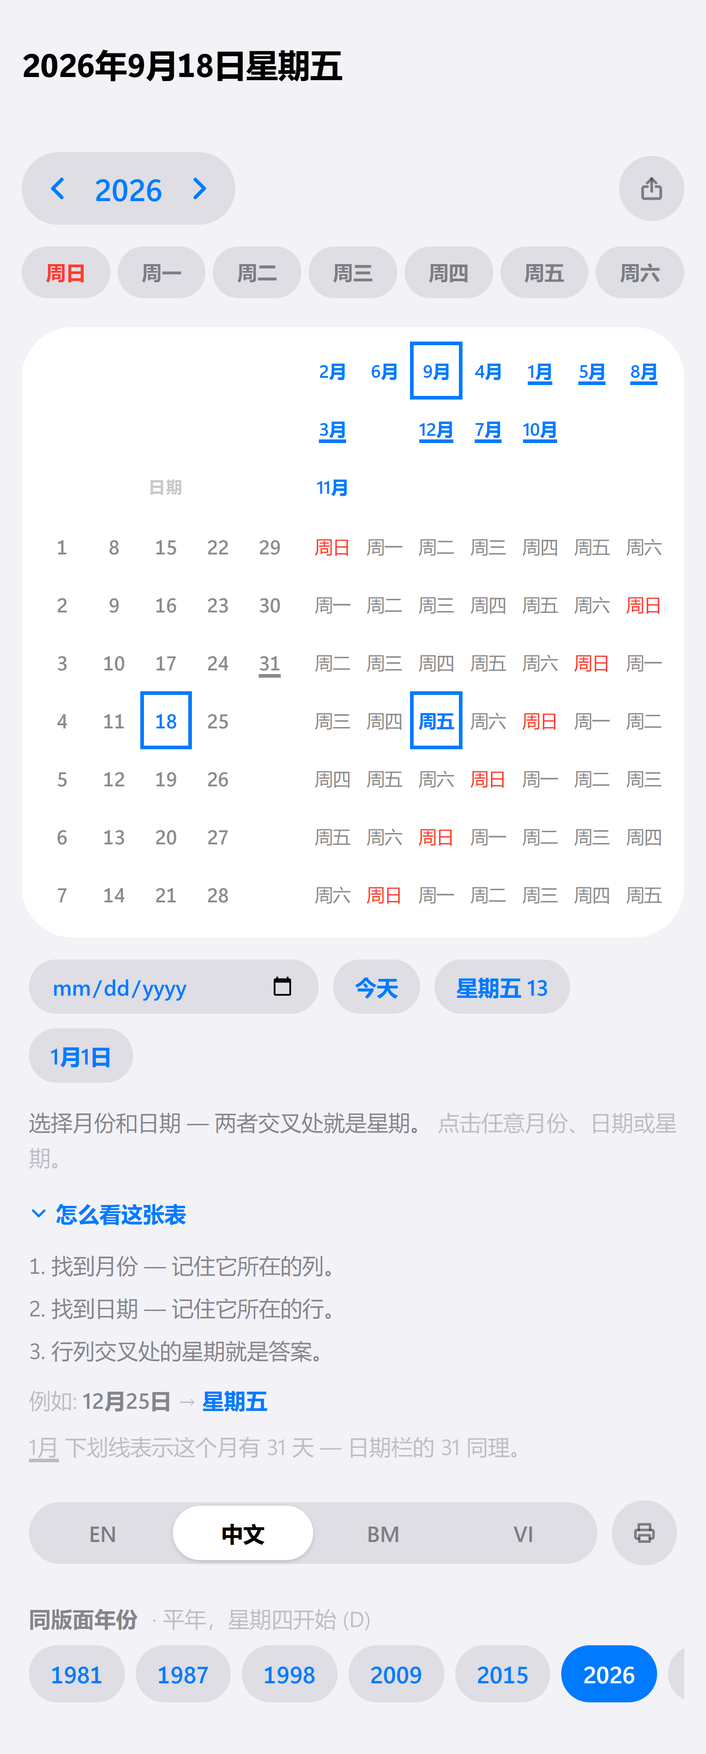
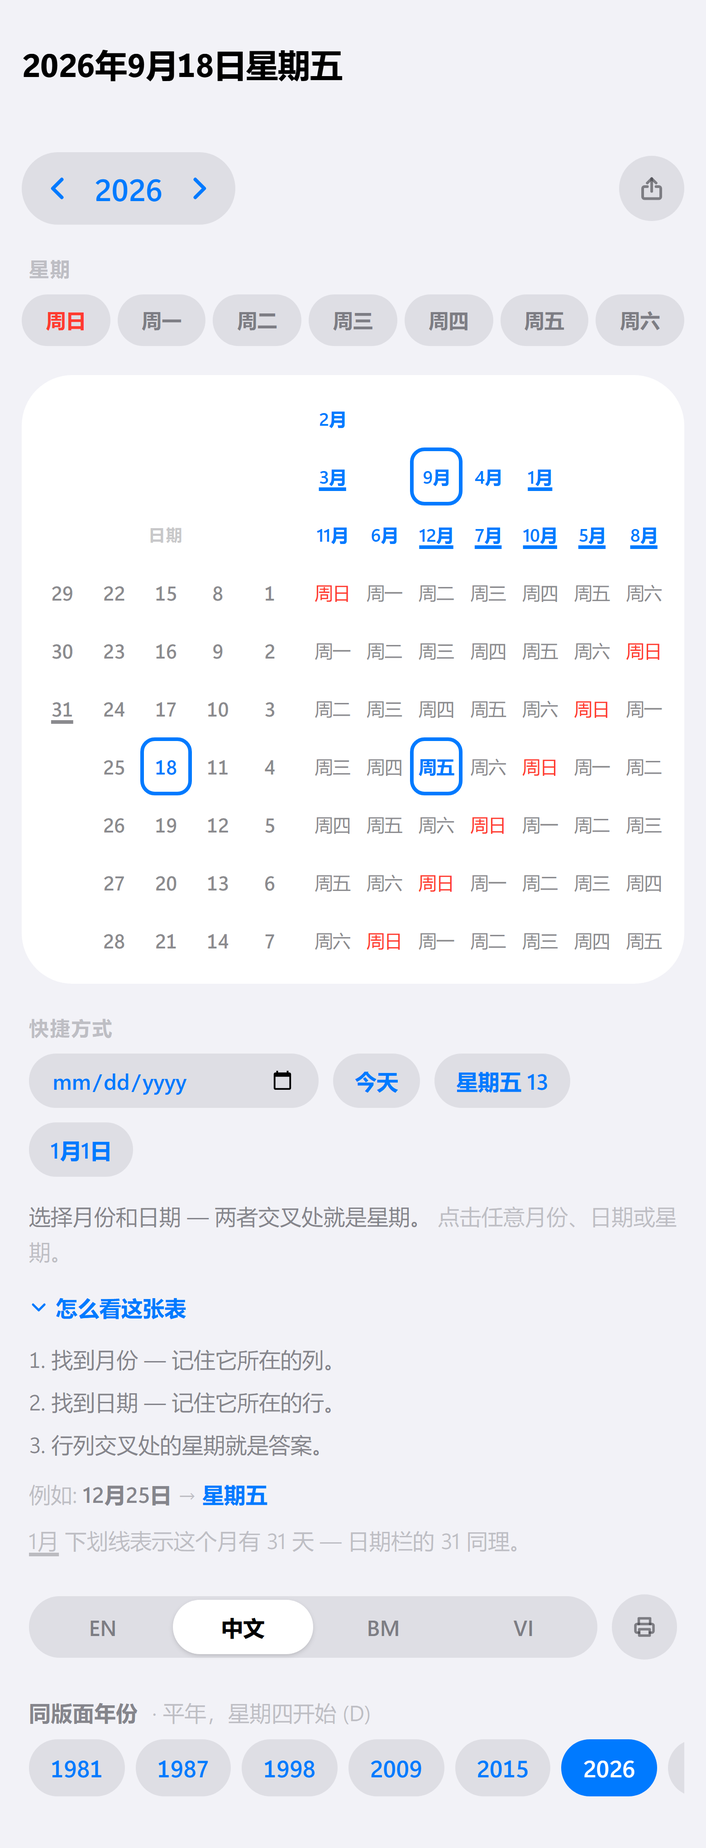
Close the holes in the crosshair, and label what is pressable
Four places leaked a gap through the band, and all four had the same cause:
something in the grid was ragged, and the ragged part was pointing inward.

Month columns hold one to three months and packed to the top, which put empty
cells directly above the weekday grid — so a column's band ran through a hole
on its way down, and the months floated away from the axis they label. They
pack to the bottom now; the spare cells collect at the top of the block where
nothing crosses them.

The date block's fifth column runs out of dates after the 28th, and that
column sat against the weekday grid, leaving a notch in the middle of the
card. The columns now run backwards — 1-7 on the right, 29-31 on the left — so
the cells with no date sit at the block's outer edge and read as margin. Every
row is the same weekday whichever column you read it in, so the order costs
nothing. Those cells also carry the band now: it marks the row, not the dates
in it, and stopping short left the bar looking broken off rather than finished.

The margin between the month grid and the weekday grid was the third hole —
a bright column with an unpainted line across it — and is gone.

The band's four outer tips are rounded and every inner angle stays square. A
plus sign cut off flat at all four ends looks clipped rather than drawn. The
corners are derived from which neighbours are lit rather than from
coordinates, because each block bounds its band differently: the month
[…]

diff --git a/src/components/CalendarBuilder.tsx b/src/components/CalendarBuilder.tsx
@@ -12,6 +12,7 @@ import {
   calendarTypeOf,
   columnForMonth,
   dateAt,
+  DATE_COLS,
   datesInRow,
   daysInMonth,
   dominicalLetterOf,
@@ -111,6 +112,37 @@ const DATE_TEXT = 'text-[11px] sm:text-[13px] lg:text-[15px]';
 const LABEL_TEXT =
   'text-[10px] tracking-tight sm:text-[12px] sm:tracking-normal lg:text-[14px]';
 
+/**
+ * Rounding for a tile sitting at the outer edge of a highlight band.
+ *
+ * The crosshair is a plus sign built out of abutting squares, and a plus sign
+ * cut off square at all four tips looks like it was clipped rather than drawn.
+ * Only the *outer* corners round: a corner is outer when both edges meeting
+ * there have nothing lit beyond them, which is what keeps the band's inner
+ * angles sharp and lets it close up where the arms cross.
+ *
+ * Callers pass which edges are exposed rather than their coordinates, because
+ * each of the three blocks decides that differently — the month column's band
+ * continues downward into the weekday grid, the date row's does not continue
+ * anywhere, and the weekday grid has both arms running through it.
+ */
+const bandCorners = (top: boolean, right: boolean, bottom: boolean, left: boolean): string =>
+  [
+    top && left ? 'rounded-tl-lg' : '',
+    top && right ? 'rounded-tr-lg' : '',
+    bottom && right ? 'rounded-br-lg' : '',
+    bottom && left ? 'rounded-bl-lg' : '',
+  ]
+    .filter(Boolean)
+    .join(' ');
+
+// Every group of controls says what it is. They were previously distinguishable
+// only by shape, which left a reader looking at three unlabelled rows of pills
+// above and below the grid with no way to tell a filter from a shortcut — the
+// names existed, but only as aria-labels, so only a screen reader got them.
+const SECTION_LABEL =
+  'px-1 text-[11px] font-semibold uppercase tracking-[0.06em] text-ios-label-3';
+
 // iOS control surface: dims on press rather than flashing a highlight.
 const PRESSABLE = 'select-none transition active:opacity-55';
 const FOCUS_RING =
@@ -159,6 +191,14 @@ const CalendarBuilder = () => {
     order: (['month', 'date', 'weekday'] as Axis[]).filter(a => initial[a] !== null),
   }));
   const [hovered, setHovered] = useState<Selection>(EMPTY);
+
+  // The explainer starts open for a reader arriving cold, and closed for one
+  // arriving on a shared link — that link came with context, and its sender
+  // did not mean to send a tutorial. Derived once from the URL rather than
+  // stored, so there is still nothing persisted anywhere.
+  const [explainerOpen, setExplainerOpen] = useState(
+    () => initial.month === null && initial.date === null && initial.weekday === null,
+  );
 
   const t = translations[language];
 
@@ -667,11 +707,13 @@ const CalendarBuilder = () => {
             can never express "I only care about Fridays" — the half of the
             lookup a conventional calendar is worst at. Sitting directly above
             the grid, it now reads as what it is: a filter on the whole board. */}
-        <div
-          role="group"
-          aria-label={t.weekdayLabel}
-          className="mt-3 grid grid-cols-7 gap-1 print:hidden lg:col-start-1 lg:row-start-3 lg:mt-0 lg:grid-cols-4"
-        >
+        <div className="mt-4 print:hidden lg:col-start-1 lg:row-start-3 lg:mt-0">
+          <h2 className={SECTION_LABEL}>{t.weekdayLabel}</h2>
+          <div
+            role="group"
+            aria-label={t.weekdayLabel}
+            className="mt-1.5 grid grid-cols-7 gap-1 lg:grid-cols-4"
+          >
           {t.weekdays.map((label, weekday) => {
             const isOn = activeWeekday === weekday;
             return (
@@ -691,11 +733,12 @@ const CalendarBuilder = () => {
                       ? 'bg-ios-fill text-ios-red'
                       : 'bg-ios-fill text-ios-label-2'
                 }`}
-              >
-                {label}
-              </button>
-            );
-          })}
+                >
+                  {label}
+                </button>
+              );
+            })}
+          </div>
         </div>
 
         {/* Grouped-content card */}
@@ -709,11 +752,13 @@ const CalendarBuilder = () => {
           <div className="flex gap-1.5 sm:gap-3">
             {/* Dates */}
             <div className="flex-5">
-              {/* Mirrors the month grid's shape with the same cell and gap
-                  classes, so both blocks start on the same line at every
-                  breakpoint without hard-coded offsets. The otherwise dead
-                  corner carries the axis label. */}
-              <div className="mb-px grid grid-cols-5 sm:mb-1">
+              {/* Mirrors the month grid's shape with the same cell classes, so
+                  both blocks start on the same line at every breakpoint without
+                  hard-coded offsets. The otherwise dead corner carries the axis
+                  label. No bottom margin: the month column's band runs straight
+                  down into the weekday grid, and a margin there left a bright
+                  line with an unpainted gap through the middle of it. */}
+              <div className="grid grid-cols-5">
                 {Array.from({ length: (monthRowCount - 1) * 5 }, (_, i) => (
                   <div key={`pad-${i}`} className={CELL} />
                 ))}
@@ -737,8 +782,37 @@ const CalendarBuilder = () => {
               >
                 {Array.from({ length: 7 }, (_, row) =>
                   Array.from({ length: 5 }, (_, col) => {
-                    const num = dateAt(row, col);
-                    if (num === null) return <div key={`d-${row}-${col}`} />;
+                    // Columns run *backwards*: 1-7 on the right, 29-31 on the
+                    // left. Every row is the same weekday whichever column you
+                    // read it in, so the order costs nothing — and it moves the
+                    // four cells that hold no date out of the block's inner edge,
+                    // where they sat as a notch between the dates and the weekday
+                    // grid, to its outer edge, where they read as margin.
+                    const num = dateAt(row, DATE_COLS - 1 - col);
+                    const inActiveRow = activeRow === row;
+                    // The date row's band is a bar on its own — nothing lit sits
+                    // above or below it — so both of its ends round. Only cells
+                    // actually in the band ask for corners; elsewhere the radius
+                    // would be invisible anyway, but it would round today's ring.
+                    const corners = inActiveRow
+                      ? bandCorners(true, col === DATE_COLS - 1, true, col === 0)
+                      : '';
+
+                    // Rows 4-7 run out of dates before they run out of columns.
+                    // Those cells still carry the band: it marks the row, not the
+                    // dates in it, and stopping short of the edge left the bar
+                    // looking broken off rather than finished.
+                    if (num === null) {
+                      return (
+                        <div key={`d-${row}-${col}`} className={CELL}>
+                          <span
+                            className={`${TILE} ${corners} ${
+                              inActiveRow ? 'bg-ios-blue-soft' : ''
+                            }`}
+                          />
+                        </div>
+                      );
+                    }
 
                     // Only real once a month is known — which is exactly why the
                     // month block is selectable.
@@ -749,7 +823,6 @@ const CalendarBuilder = () => {
                       num === currentDate &&
                       (activeMonth === null || activeMonth === currentMonth);
                     const isPast = isBeforeToday(year, activeMonth, num, today);
-                    const inActiveRow = activeRow === row;
                     // The mirror case: a month and a weekday resolve a row, and
                     // every date in it is an answer.
                     const answering = activeDate === null && activeRow !== null;
@@ -769,7 +842,7 @@ const CalendarBuilder = () => {
                       >
                         <span
                           aria-current={isToday ? 'date' : undefined}
-                          className={`${TILE} ${DATE_TEXT} ${CELL_FOCUS} font-medium tabular-nums ${
+                          className={`${TILE} ${DATE_TEXT} ${CELL_FOCUS} ${corners} font-medium tabular-nums ${
                             outOfRange
                               ? 'text-ios-label-3 line-through decoration-1 opacity-40'
                               : isSelected || isAnswer
@@ -783,7 +856,7 @@ const CalendarBuilder = () => {
                                   // findable in every state instead of having to
                                   // stand down whenever something is selected.
                                   isToday
-                                  ? `font-semibold text-ios-blue outline-2 -outline-offset-2 outline-ios-blue ${
+                                  ? `rounded-lg font-semibold text-ios-blue outline-2 -outline-offset-2 outline-ios-blue ${
                                       inActiveRow ? 'bg-ios-blue-soft' : ''
                                     }`
                                   : inActiveRow
@@ -804,32 +877,32 @@ const CalendarBuilder = () => {
 
             {/* Months above, weekdays below — they share the 7 columns */}
             <div className="flex-7">
-              <div
-                role="group"
-                aria-label={t.monthsLabel}
-                className="mb-px grid grid-cols-7 sm:mb-1"
-              >
+              {/* No bottom margin, so a column's band runs unbroken from its
+                  topmost month straight down through the weekday grid. */}
+              <div role="group" aria-label={t.monthsLabel} className="grid grid-cols-7">
                 {Array.from({ length: monthRowCount }, (_, row) =>
                   Array.from({ length: 7 }, (_, col) => {
-                    const monthIndex = monthColumns[col][row];
-                    // A column holds one to three months, so most columns have
-                    // empty rows below theirs. Those empties still carry the
-                    // column's highlight: the band means "this column", not
-                    // "these months", and leaving a hole in it where no month
-                    // happens to sit made the crosshair look broken.
-                    if (monthIndex === undefined) {
-                      return (
-                        <div key={`m-${row}-${col}`} className={CELL}>
-                          <span
-                            className={`${TILE} ${activeCol === col ? 'bg-ios-blue-soft' : ''}`}
-                          />
-                        </div>
-                      );
-                    }
+                    // Columns hold one to three months and are packed to the
+                    // *bottom*, not the top. Top-packing left every short column
+                    // with empty cells immediately above the weekday grid, which
+                    // both stranded the months away from the axis they label and
+                    // put a hole in the middle of the column's band. Packed down,
+                    // the spare cells collect at the top of the block where
+                    // nothing needs to cross them.
+                    const months = monthColumns[col];
+                    const offset = monthRowCount - months.length;
+                    const monthIndex = row < offset ? undefined : months[row - offset];
+                    if (monthIndex === undefined) return <div key={`m-${row}-${col}`} className={CELL} />;
 
                     const isSelected = activeMonth === monthIndex;
                     const isCurrent = showToday && monthIndex === currentMonth;
                     const inActiveCol = activeCol === col;
+                    // The column's band starts at this column's first month and
+                    // continues down into the weekday grid, so only its top two
+                    // corners are ever outer ones.
+                    const corners = inActiveCol
+                      ? bandCorners(row === offset, true, false, true)
+                      : '';
                     // In a reverse lookup nothing was picked on this axis, so
                     // every month in the resolved column is part of the answer
                     // — and should read as one, not as faint context.
@@ -852,7 +925,7 @@ const CalendarBuilder = () => {
                         className={`${CELL} group select-none focus:outline-none`}
                       >
                         <span
-                          className={`${TILE} ${LABEL_TEXT} ${CELL_FOCUS} overflow-hidden px-px font-semibold ${
+                          className={`${TILE} ${LABEL_TEXT} ${CELL_FOCUS} ${corners} overflow-hidden px-px font-semibold ${
                             // While an answer set is on screen the "current
                             // month" marker stands down: two different meanings
                             // sharing one solid fill would read as one answer
@@ -869,7 +942,7 @@ const CalendarBuilder = () => {
                             isSelected || isAnswer
                               ? 'bg-ios-blue text-white'
                               : isCurrent
-                                ? `outline-2 -outline-offset-2 outline-ios-blue ${
+                                ? `rounded-lg outline-2 -outline-offset-2 outline-ios-blue ${
                                     inActiveCol ? 'bg-ios-blue-soft' : ''
                                   } text-ios-blue`
                                 : inActiveCol
@@ -911,6 +984,22 @@ const CalendarBuilder = () => {
                       const isTodayCell =
                         noSelection && showToday && row === todayRow && col === todayCol;
 
+                      // Both arms of the crosshair run through this block, so an
+                      // edge is outer only when the neighbour beyond it is unlit.
+                      // Row -1 is the month grid, which abuts this one and is lit
+                      // wherever the column is — so the band's top tip lives up
+                      // there, not here.
+                      const litAt = (r: number, c: number) =>
+                        r >= 0 && r < 7 && c >= 0 && c < 7 && (c === activeCol || r === activeRow);
+                      const corners = onCross
+                        ? bandCorners(
+                            row === 0 ? col !== activeCol : !litAt(row - 1, col),
+                            !litAt(row, col + 1),
+                            !litAt(row + 1, col),
+                            !litAt(row, col - 1),
+                          )
+                        : '';
+
                       return (
                         <button
                           key={`w-${row}-${col}`}
@@ -947,11 +1036,11 @@ const CalendarBuilder = () => {
                           className={`${CELL} group select-none focus:outline-none`}
                         >
                           <span
-                            className={`${TILE} ${LABEL_TEXT} ${CELL_FOCUS} font-medium ${
+                            className={`${TILE} ${LABEL_TEXT} ${CELL_FOCUS} ${corners} font-medium ${
                               atIntersection
                                 ? 'bg-ios-blue font-semibold text-white'
                                 : isTodayCell
-                                  ? 'font-semibold text-ios-blue outline-2 -outline-offset-2 outline-ios-blue'
+                                  ? 'rounded-lg font-semibold text-ios-blue outline-2 -outline-offset-2 outline-ios-blue'
                                   : onCross
                                     ? 'bg-ios-blue-soft text-ios-blue'
                                     : weekdayIndex === 0
@@ -974,7 +1063,13 @@ const CalendarBuilder = () => {
         {/* Shortcuts sit with the other controls: below the grid on a phone,
             in the left rail on desktop. Placed before the footnote in the DOM so
             the reading order matches the visual order at both widths. */}
-        <div role="group" aria-label={t.presetsLabel} className="mt-3 flex flex-wrap gap-2 px-1 print:hidden lg:col-start-1 lg:row-start-4 lg:mt-0">
+        <div className="mt-4 print:hidden lg:col-start-1 lg:row-start-4 lg:mt-0">
+          <h2 className={SECTION_LABEL}>{t.presetsLabel}</h2>
+          <div
+            role="group"
+            aria-label={t.presetsLabel}
+            className="mt-1.5 flex flex-wrap gap-2 px-1"
+          >
           {/* The fast path in, for a reader who already knows the date and
               wants the grid to show them where it lives. A native date input
               rather than a parsed text field: it brings the iOS wheel and the
@@ -994,16 +1089,17 @@ const CalendarBuilder = () => {
               className="w-34 cursor-pointer appearance-none bg-transparent font-semibold tabular-nums text-ios-blue focus:outline-none"
             />
           </label>
-          {presets.map(({ key, label, apply }) => (
-            <button
-              key={key}
-              type="button"
-              onClick={apply}
-              className={`${PRESSABLE} ${FOCUS_RING} rounded-full bg-ios-fill px-3 py-1.5 text-[12px] font-semibold text-ios-blue sm:text-[13px]`}
-            >
-              {label}
-            </button>
-          ))}
+            {presets.map(({ key, label, apply }) => (
+              <button
+                key={key}
+                type="button"
+                onClick={apply}
+                className={`${PRESSABLE} ${FOCUS_RING} rounded-full bg-ios-fill px-3 py-1.5 text-[12px] font-semibold text-ios-blue sm:text-[13px]`}
+              >
+                {label}
+              </button>
+            ))}
+          </div>
         </div>
 
         {/* iOS grouped-list footnote. Clear used to live here; it moved to the
@@ -1022,7 +1118,11 @@ const CalendarBuilder = () => {
               motion, and it cannot fight the "nothing moves" property the rest
               of the layout is built around. The worked example is computed from
               the year on screen, so it is never a stale illustration. */}
-          <details className="group mt-2 print:hidden">
+          <details
+            open={explainerOpen}
+            onToggle={e => setExplainerOpen(e.currentTarget.open)}
+            className="group mt-2 print:hidden"
+          >
             <summary
               className={`${PRESSABLE} ${FOCUS_RING} inline-flex cursor-pointer list-none items-center gap-1 rounded-full text-[12px] font-semibold text-ios-blue sm:text-[13px] [&::-webkit-details-marker]:hidden`}
             >

diff --git a/README.md b/README.md
@@ -81,9 +81,9 @@ Month and weekday labels switch between **English / 中文 / Melayu / Tiếng Vi
 |---|---|
 | **Any year, one grid** | Step the year with ◀ / ▶, jump back with **Current Year**, or pick one of the same-grid years below. Only the month labels re-flow. |
 | **Today, triangulated** | The current month, today's date, and the weekday cell where they intersect are all marked at once — with an outline, not a fill. A fill is what a selection uses, and the two mean different things: selecting the 13th used to put two identical blue squares on screen, one meaning *the answer* and one meaning *today*. |
-| **Crosshair tracing** | Hover or tap any weekday cell and it lights its full row and column — plus the matching months above and the matching dates to the left. The cells are square and the grids have no gaps, so a lit row and column read as one continuous band meeting at a single filled square. That is the relationship the layout encodes, drawn rather than implied; circles could only ever meet at a point. |
+| **Crosshair tracing** | Hover or tap any weekday cell and it lights its full row and column — plus the matching months above and the matching dates to the left. The cells are square and the grids have no gaps, so a lit row and column read as one continuous band meeting at a single filled square, rounded at its four outer tips and square everywhere the arms cross. That is the relationship the layout encodes, drawn rather than implied; circles could only ever meet at a point. |
 | **Tap to pin** | On touch devices a tap pins the crosshair until you tap again or press **Clear**, so the lookup survives lifting your finger. Cells are also `<button>`s, so Enter works — and the weekday block is one tab stop with arrow keys inside it, not 49. |
-| **31-day markers** | Months with 31 days are underlined, as is date `31` — a reminder that not every column runs to the bottom. |
+| **31-day markers** | Months with 31 days are underlined, as is date `31` — a reminder that not every column runs to the bottom. The in-app explainer says so; it used to be documented only here, which is not where someone looking at the grid is. |
 | **Elapsed dates dimmed, honestly** | In the current year, dates before today are greyed out — but only once a month is selected. The date block is shared by all 12 months, so a bare day-of-month comparison would dim the 3rd of December as readily as the 3rd of January; `isBeforeToday()` takes the month and returns `false` rather than guess when none is held. |
 | **Sunday in red** | Marked in every one of the seven row rotations, so the weekend edge stays findable wherever it lands. |
 | **4 languages** | **English / 中文 / Melayu / Tiếng Việt**, from a segmented control at the foot of the page or from `?lang=`. The control is a `<fieldset>` of real radio inputs, so it keeps native group semantics and native arrow-key navigation while looking like an iOS segmented control. It also sets `document.documentElement.lang`, which had been pinned to `en` while the page could already render all four. Month lengths and the Sunday column key off indices, not translated strings, so adding a language means adding one entry. |
@@ -104,7 +104,9 @@ Month and weekday labels switch between **English / 中文 / Melayu / Tiếng Vi
 | **Shareable, visibly** | The URL has carried the whole view all along; now a button says so, offering the native share sheet where one exists and a clipboard copy everywhere else. |
 | **Installable** | A web manifest with relative `start_url` and `scope`, real PNG icons including a maskable one, and a PNG `apple-touch-icon` — iOS refuses an SVG there and was silently using a screenshot. |
 | **Prints** | `@media print` drops every control, forces the light palette (a dark-appearance reader would otherwise print white text on a background the printer drops), keeps the background fills — which *are* the answer, not decoration — and wraps the same-grid strip so the sheet states the years it is valid for. |
-| **Explains itself** | A collapsed *How to read it* carries the three steps and a worked example computed from the year on screen. A `<details>`, not a guided tour: no motion, and nothing that can fight the no-layout-shift property above. |
+| **Explains itself** | *How to read it* carries the three steps, a worked example computed from the year on screen, and what the underline means. It opens for a reader arriving cold and stays closed for one arriving on a shared link — that link came with context, and its sender did not mean to send a tutorial. Derived from the URL rather than stored, so there is still nothing persisted anywhere. A `<details>`, not a guided tour: no motion, and nothing that can fight the no-layout-shift property above. |
+| **Ragged edges face outward** | Two blocks come out uneven, and both are packed so the spare cells land on an outer edge instead of an inner one. Month columns hold one to three months and pack *down*, so the dense row sits against the weekday grid it labels rather than floating above a hole. The date block runs its columns *backwards* — 1-7 on the right, 29-31 on the left — so the four cells with no date sit at the block's far edge rather than forming a notch between the dates and the weekday grid. Every row is the same weekday whichever column you read it in, so the order costs nothing. |
+| **Every group says what it is** | `WEEKDAY`, `DATES`, `SHORTCUTS` and *Same grid as* are visible headings. The names always existed as `aria-label`s, so only a screen reader got them, which left a sighted reader facing three unlabelled rows of pills with no way to tell a filter from a shortcut. |
 | **Static by construction** | No backend, no network calls, no storage. Builds to plain files; deploys to GitHub Pages. |
 
 ---
